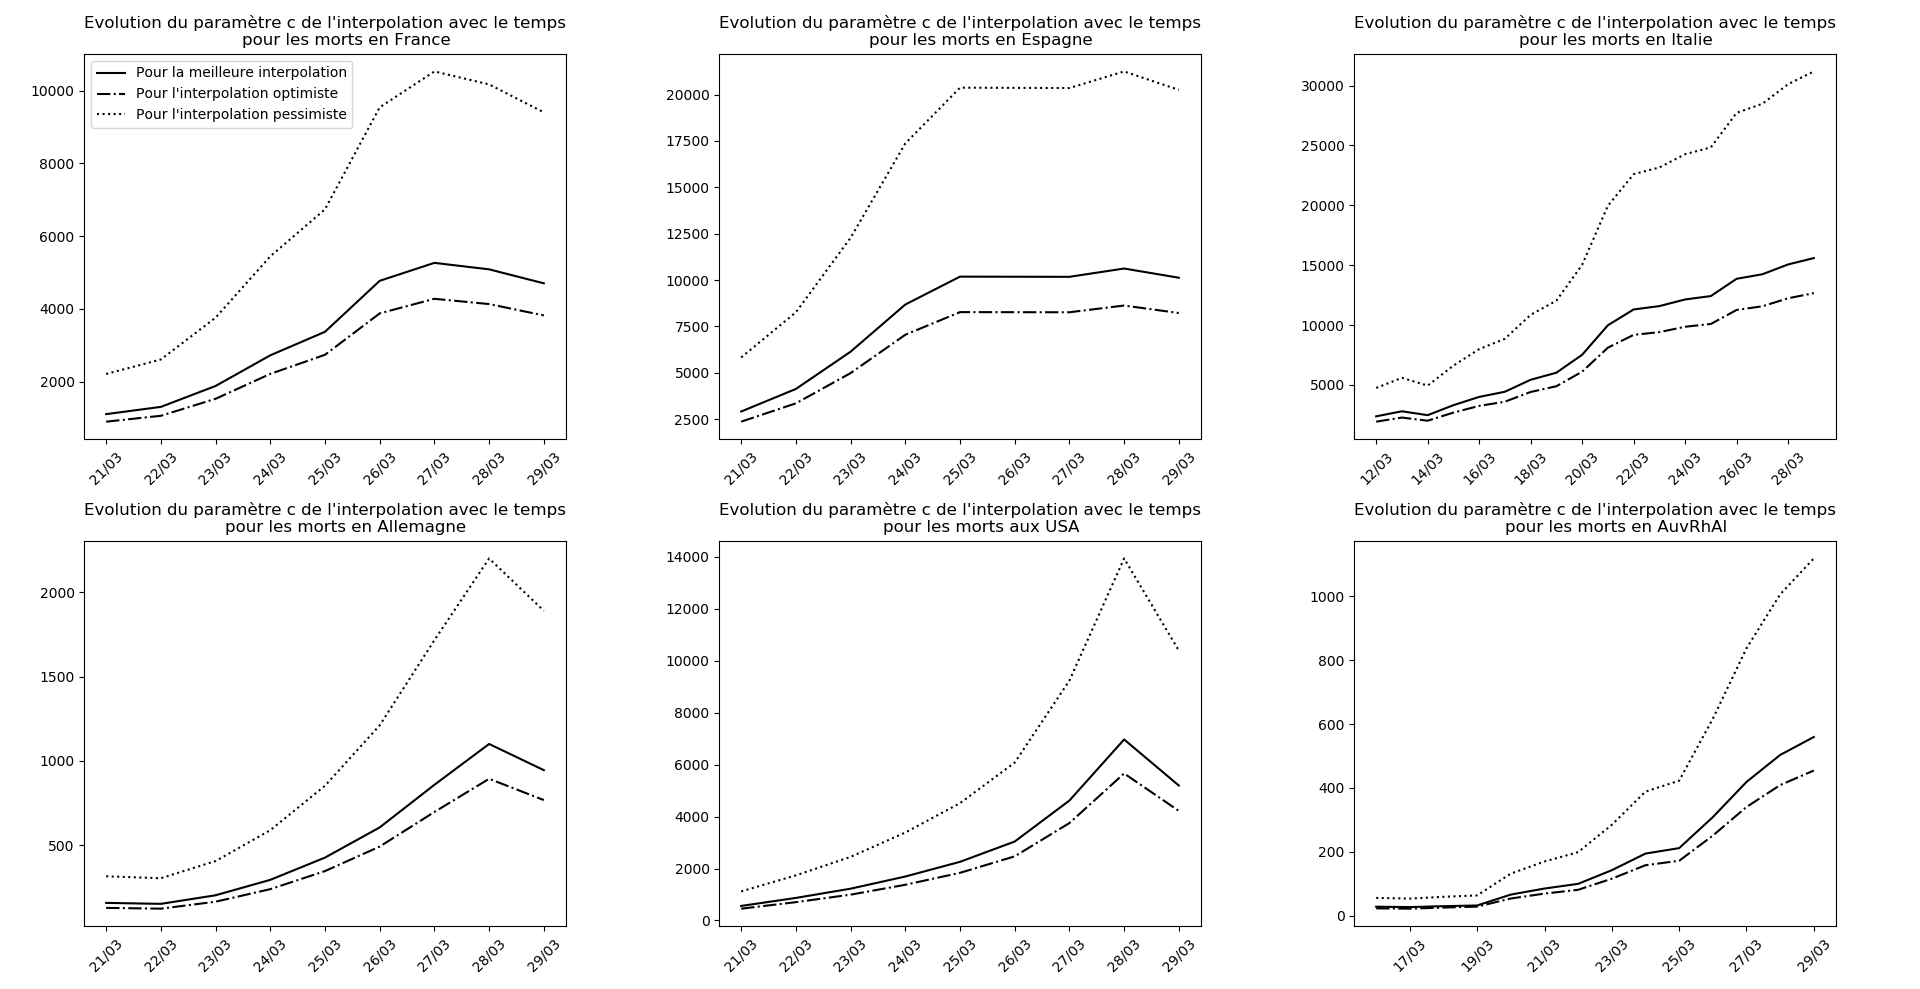
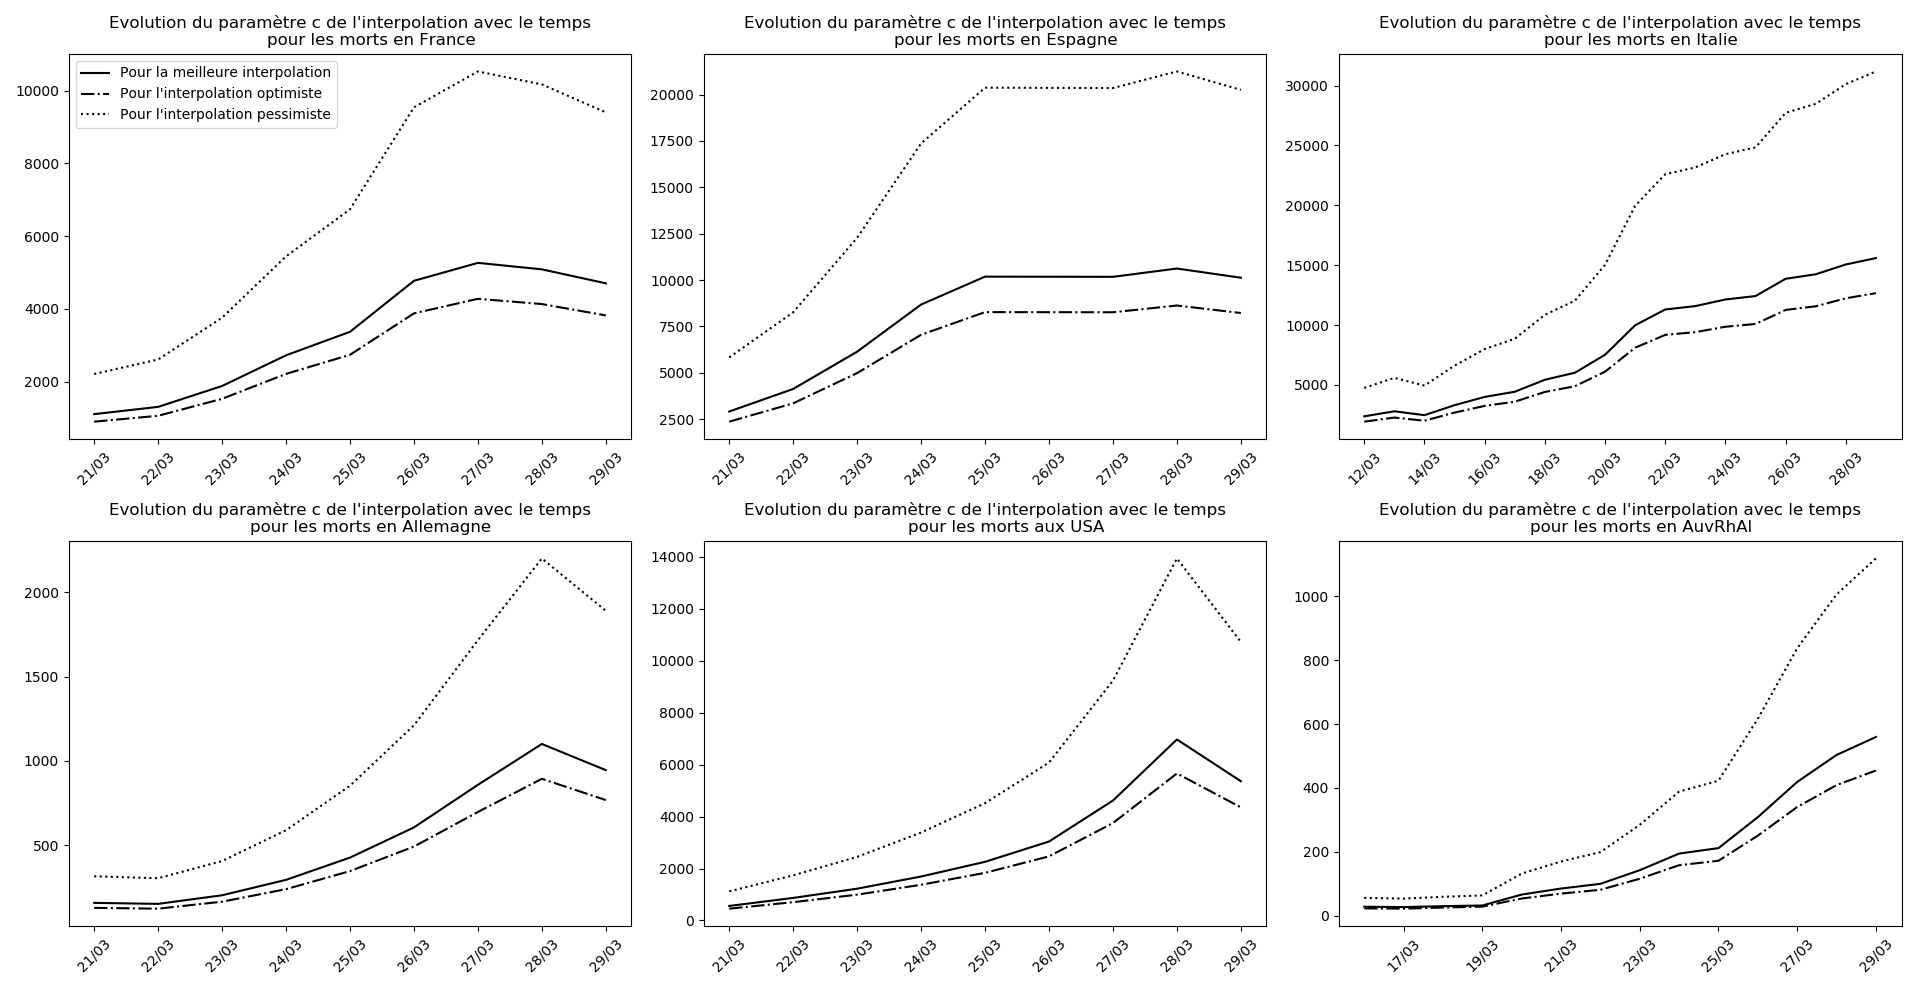
CoViD-19

diff --git a/_posts/2020-03-28-covid19.md b/_posts/2020-03-28-covid19.md
@@ -541,8 +541,6 @@ Source des données :
 - pour le monde : [https://www.worldometers.info/coronavirus/](https://www.worldometers.info/coronavirus/)
 - pour Auvergne-Rhône-Alpes : [https://www.auvergne-rhone-alpes.ars.sante.fr/liste-communiques-presse](https://www.auvergne-rhone-alpes.ars.sante.fr/liste-communiques-presse)
 
-Remarque : les statistiques du jour continue à évoluer pour les US sur le site dont je me sers comme référence. Je mettrai à jour demain matin.
-
 ![CoViD-19 sigmoïdale, évolution du nombre de cas](/img/LimiteMorts30032020.png)
 
 ![CoViD-19 sigmoïdale, évolution du nombre de cas](/img/LimiteCoViD30032020.png)
